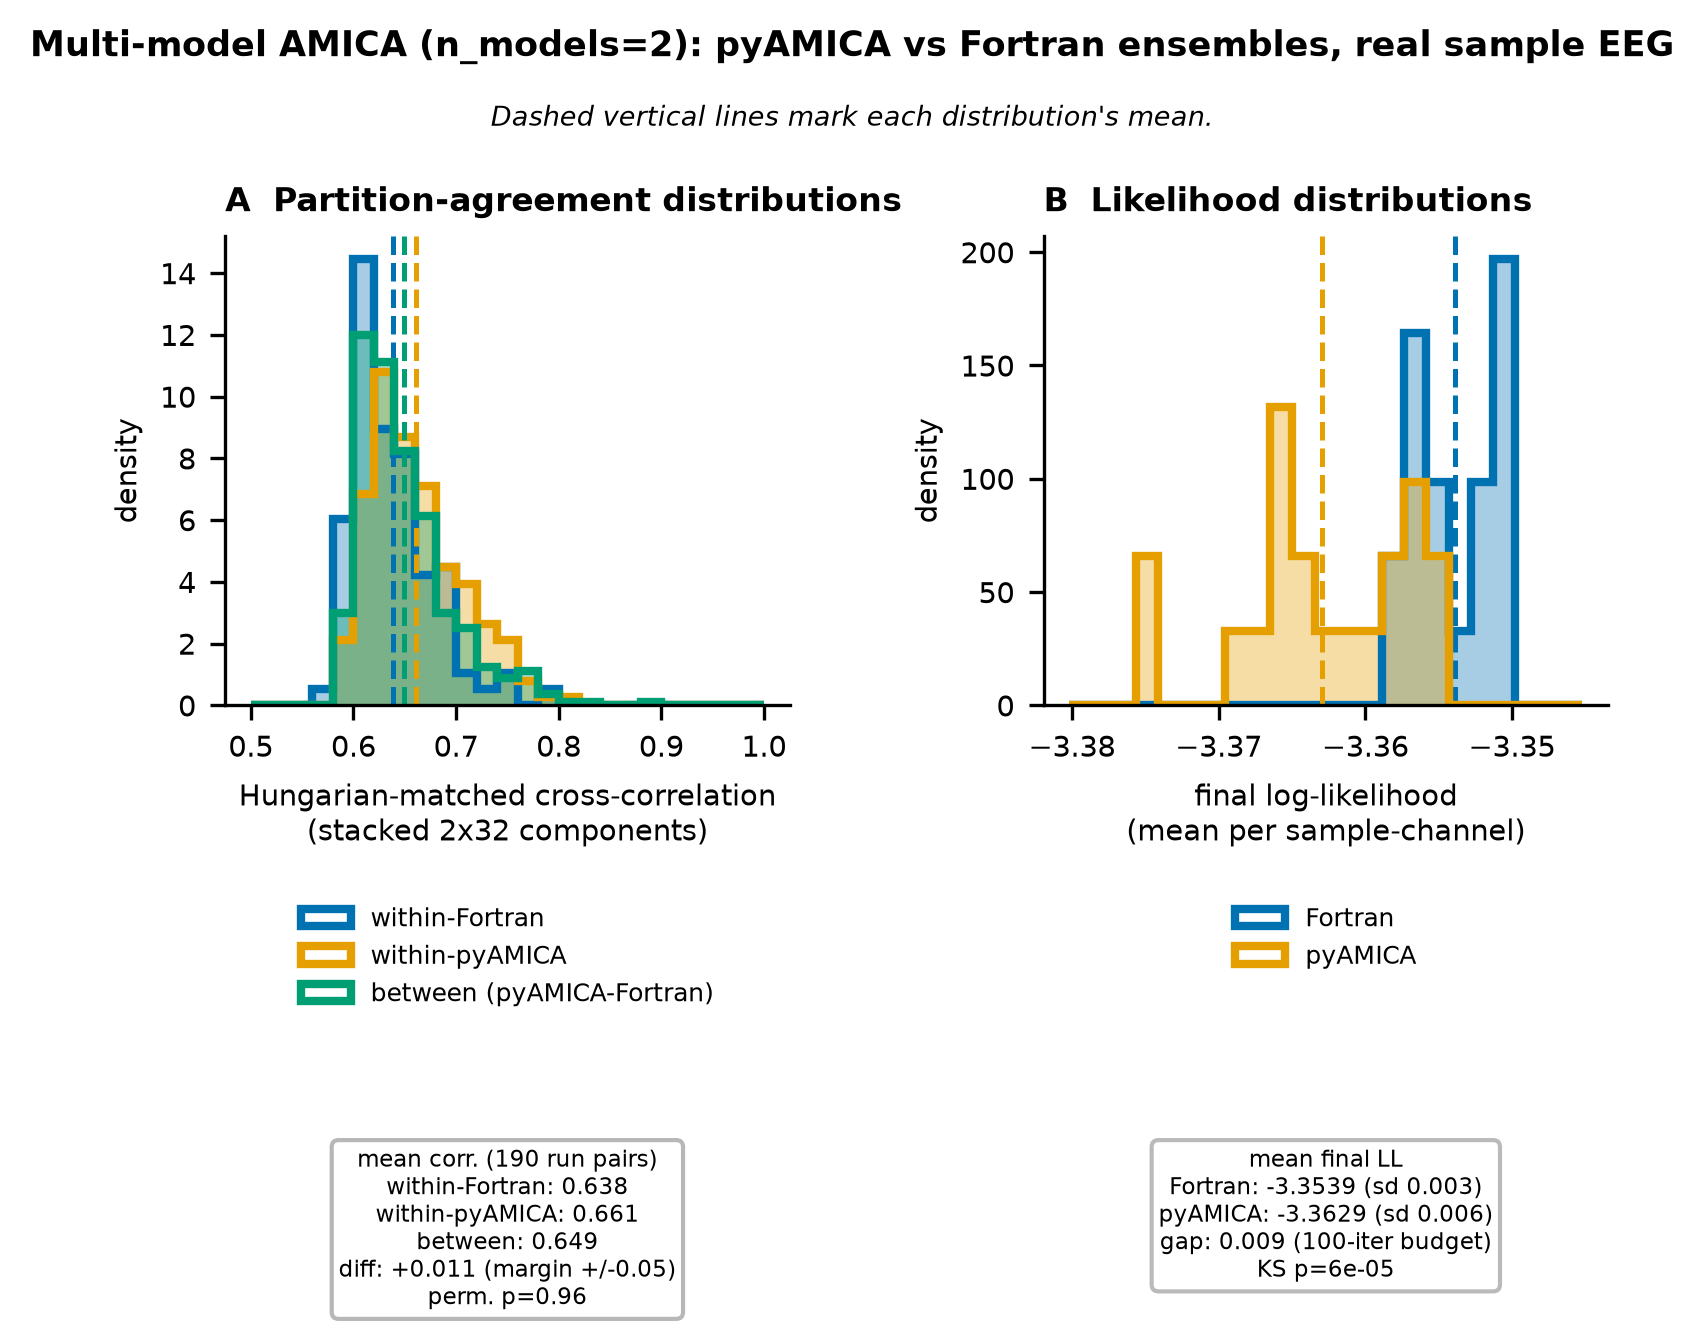
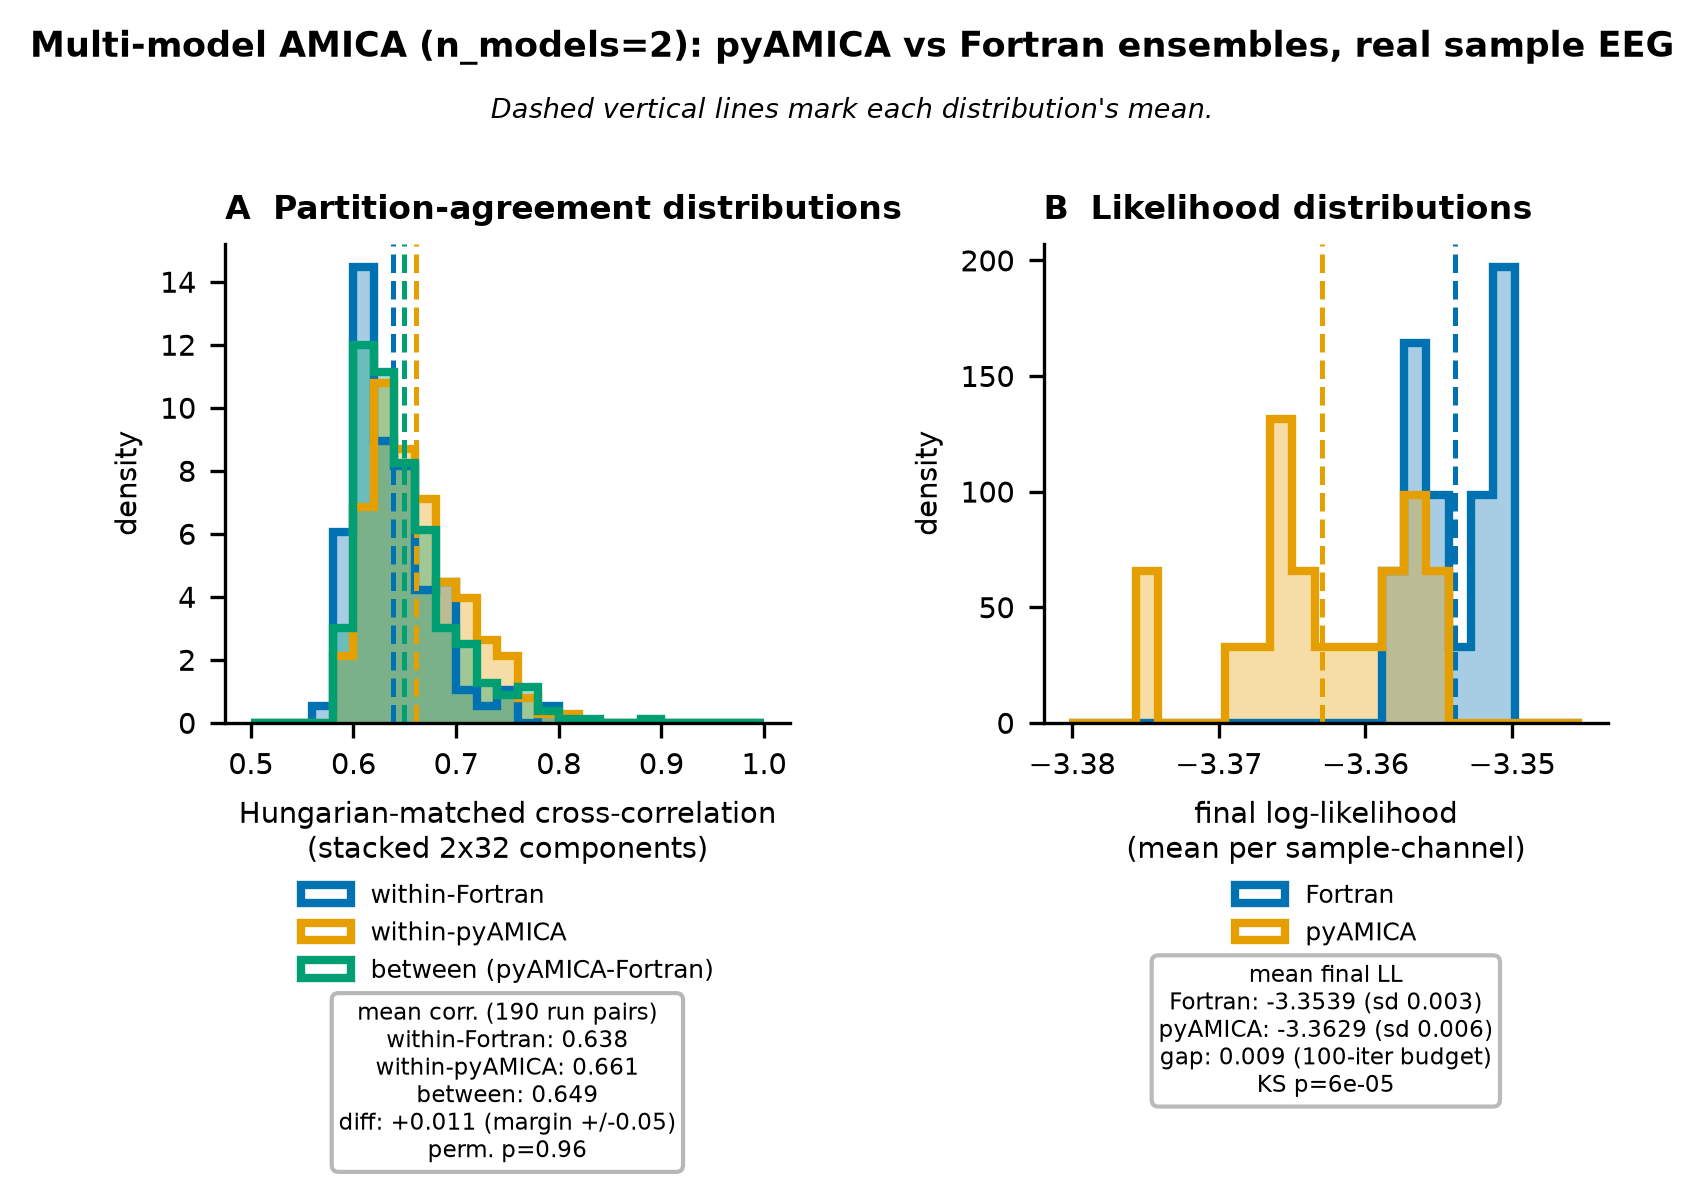
Tighten Figure 1's legend/stats spacing
The out-of-axes placement (previous commit) fixed the overlap but
left a lot of dead space; shrink the figure and the gaps between
xlabel/legend/stats so the footer reads as one tight block per
panel instead of three loosely stacked pieces.

diff --git a/.context/issue-27/multimodel_ensemble.py b/.context/issue-27/multimodel_ensemble.py
@@ -170,7 +170,7 @@ def figure(within_F, within_G, between, F_ll, G_ll, diff, p_perm, ks, out):
     plt.rcParams.update(
         {"font.size": 7, "axes.spines.top": False, "axes.spines.right": False}
     )
-    fig, (axA, axB) = plt.subplots(1, 2, figsize=(5.36, 4.6))
+    fig, (axA, axB) = plt.subplots(1, 2, figsize=(5.36, 4.2))
     bins = np.linspace(0.5, 1.0, 26)
     for arr, col, lab in [
         (within_F, C_FORT, "within-Fortran"),
@@ -216,18 +216,18 @@ def figure(within_F, within_G, between, F_ll, G_ll, diff, p_perm, ks, out):
     # axes' true horizontal center after the layout below is fixed, so this keeps
     # each panel's legend/text under its own histogram, not bleeding into the
     # other panel.
-    fig.subplots_adjust(top=0.82, bottom=0.48, left=0.11, right=0.97, wspace=0.45)
+    fig.subplots_adjust(top=0.80, bottom=0.42, left=0.11, right=0.97, wspace=0.45)
     cx_a = sum(axA.get_position().intervalx) / 2
     cx_b = sum(axB.get_position().intervalx) / 2
 
     handles_a, labels_a = axA.get_legend_handles_labels()
     fig.legend(
         handles_a, labels_a, frameon=False, fontsize=6,
-        loc="upper center", bbox_to_anchor=(cx_a, 0.35),
+        loc="upper center", bbox_to_anchor=(cx_a, 0.31),
     )  # fmt: skip
     fig.text(
         cx_a,
-        0.16,
+        0.20,
         f"mean corr. (190 run pairs)\n"
         f"within-Fortran: {within_F.mean():.3f}\n"
         f"within-pyAMICA: {within_G.mean():.3f}\n"
@@ -243,11 +243,11 @@ def figure(within_F, within_G, between, F_ll, G_ll, diff, p_perm, ks, out):
     handles_b, labels_b = axB.get_legend_handles_labels()
     fig.legend(
         handles_b, labels_b, frameon=False, fontsize=6,
-        loc="upper center", bbox_to_anchor=(cx_b, 0.35),
+        loc="upper center", bbox_to_anchor=(cx_b, 0.31),
     )  # fmt: skip
     fig.text(
         cx_b,
-        0.16,
+        0.23,
         f"mean final LL\n"
         f"Fortran: {F_ll.mean():.4f} (sd {F_ll.std():.3f})\n"
         f"pyAMICA: {G_ll.mean():.4f} (sd {G_ll.std():.3f})\n"